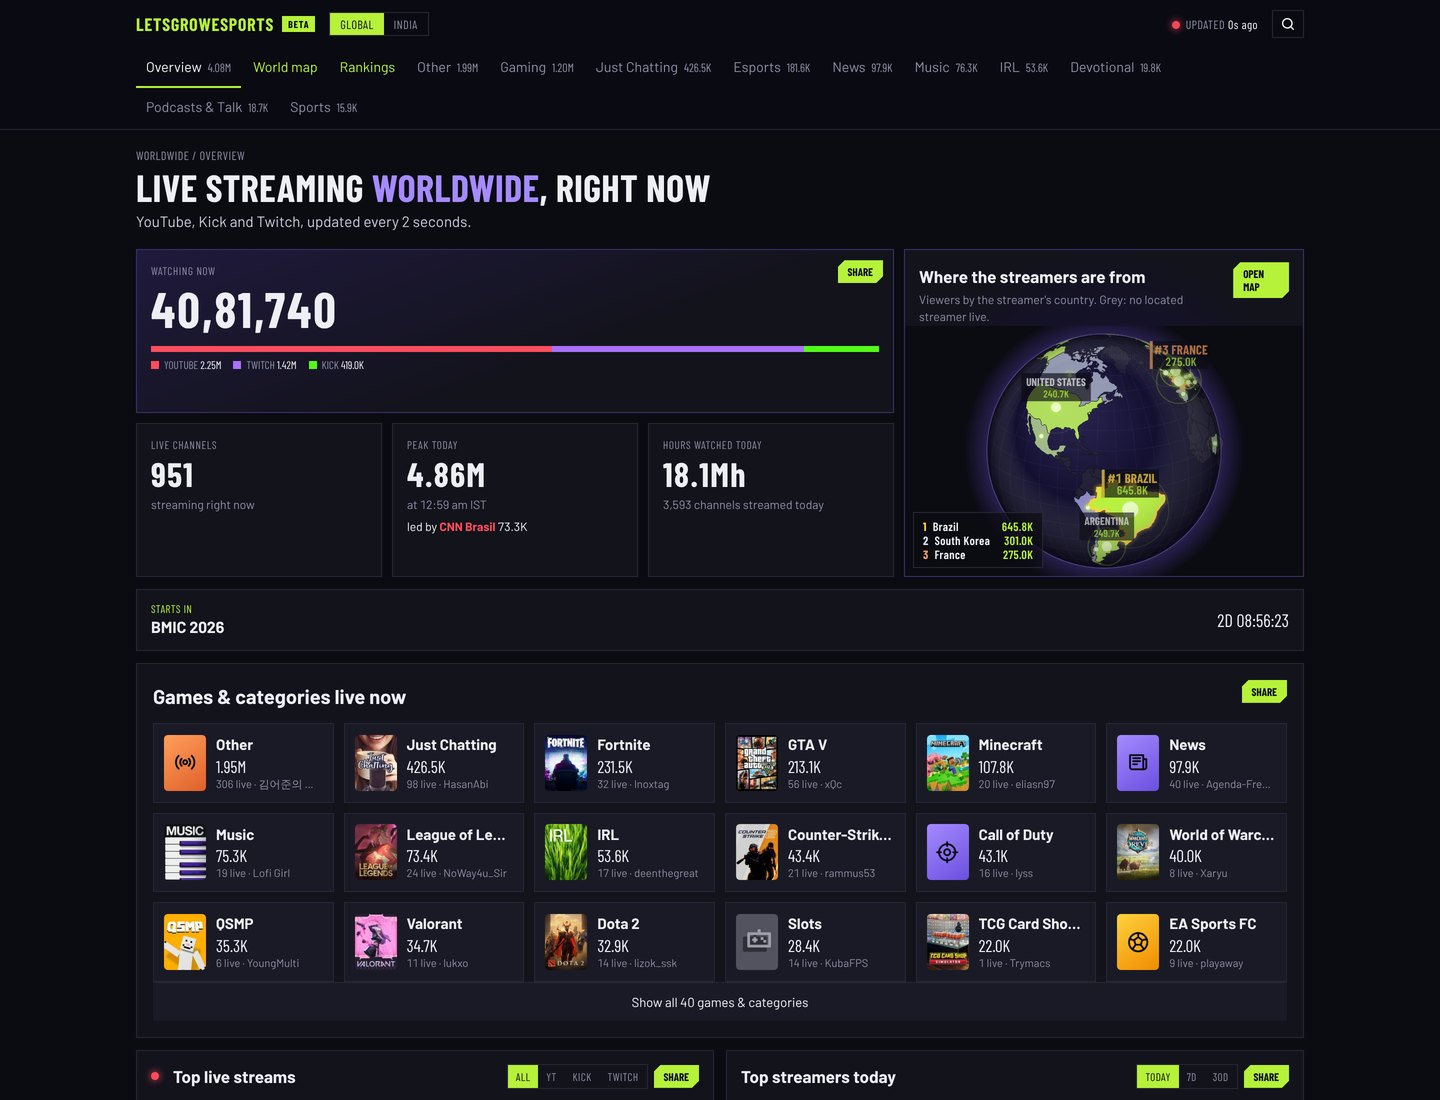
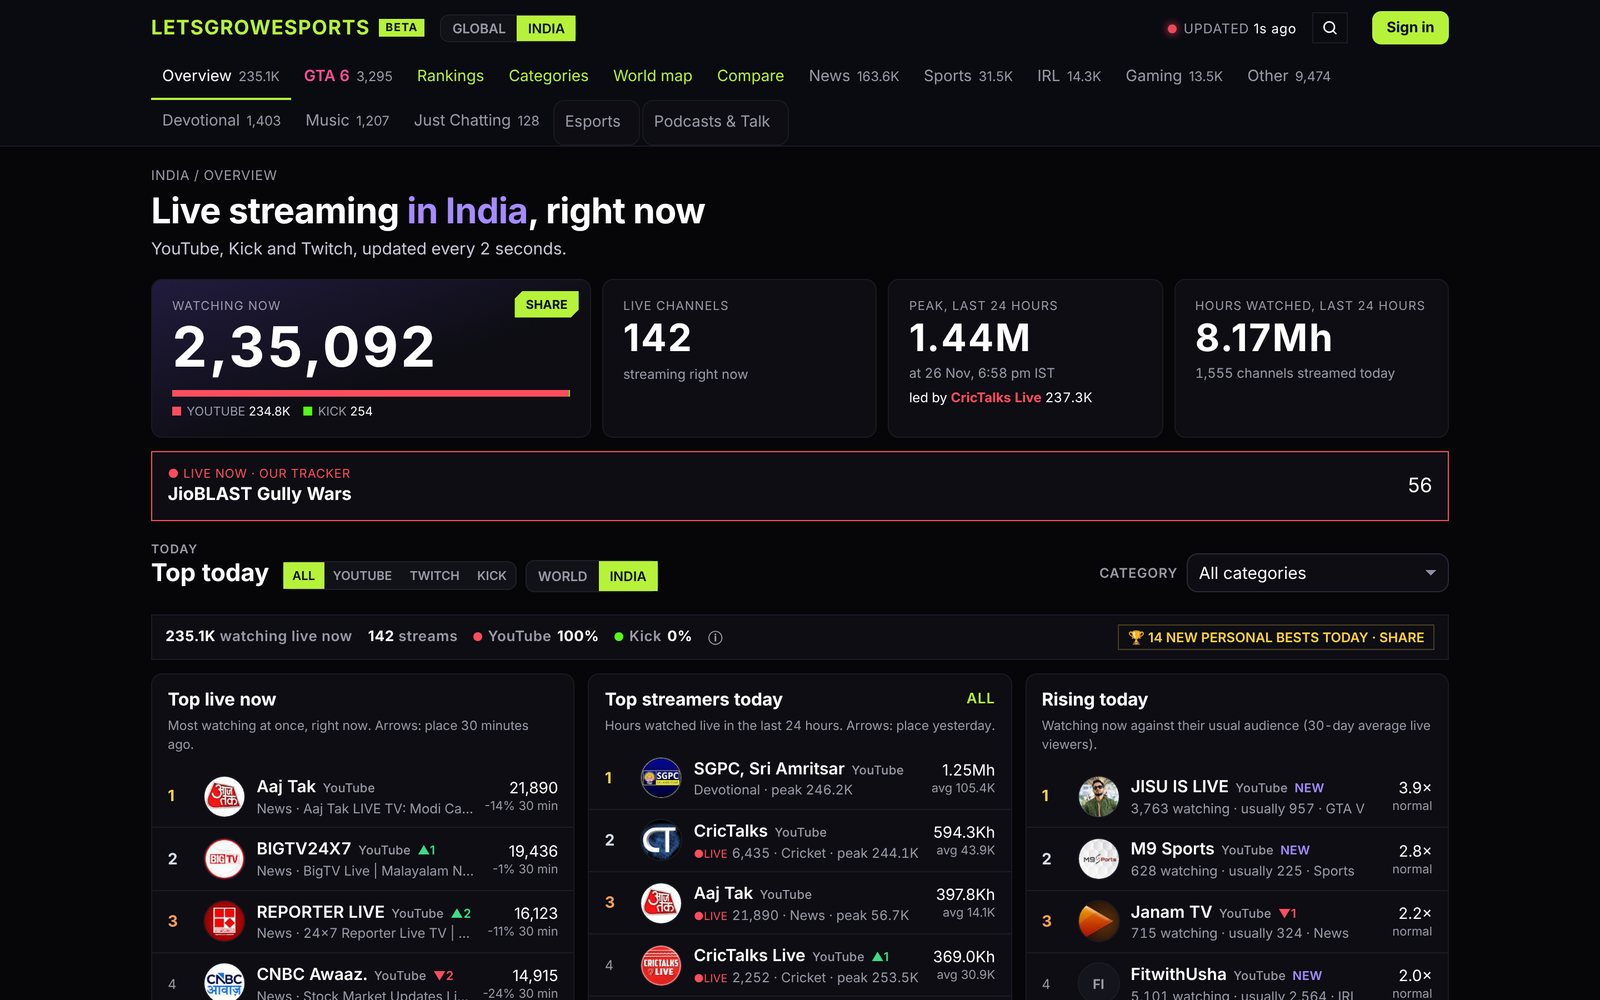
README: new screenshots (India, PMGC tracker, rankings, worldwide, phone) and share cards; PMGC Day 1 numbers (#293)
Claude-Session: https://claude.ai/code/session_01BzJY31iHji2UxXymYXT3SW

diff --git a/README.md b/README.md
@@ -5,7 +5,17 @@ Live at [live.letsgrowesports.com](https://live.letsgrowesports.com), used by 5,
 
 > Maintaining it? Start with [docs/HANDOFF.md](docs/HANDOFF.md). How it works under the hood: [docs/TECHNICAL.md](docs/TECHNICAL.md).
 
-![The live dashboard, worldwide](docs/site-overview.jpg)
+![India overview: everyone streaming live in India right now, updated every 2 seconds](docs/site-overview.jpg)
+
+| Event tracker (PMGC 2026) | Watch-party leaderboard |
+|---|---|
+| ![PMGC 2026 tracker: 4,99,214 peak, official vs watch parties](docs/site-event.jpg) | ![Watch parties ranked, India / outside India, YouTube and Kick merged](docs/site-event-board.jpg) |
+| **Rankings, India** | **Worldwide overview** |
+| ![Top channels in India by peak live viewers](docs/site-rankings.jpg) | ![Everyone streaming live worldwide](docs/site-global.jpg) |
+
+**Share cards** (made on the site, sized for Instagram posts and stories and for X):
+
+![Leaderboard, streams and streamer rank cards for PMGC 2026](docs/share-cards.jpg)
 
 ## The problem
 
@@ -16,6 +26,8 @@ Audience numbers for creators and live events are late, partial and split across
 - Channel trackers say little about creators outside the US, about live audiences, or about how a channel's recent videos actually perform.
 
 **GTA 6 launch day (18 Nov 2026):** the site measured **12.7 million people watching live streams at once worldwide**, with GTA 6 alone peaking at **7.08 million** across YouTube, Twitch and Kick, and the top Indian GTA 6 creators (Mythpat 125K, CarryisLive 103K, GamerFleet 90K) ranked against the world.
+
+**PMGC 2026, Day 1 (26 Nov):** the site measured **4,99,214 people watching at once** at 8:21 PM IST across 300 streams, and **73% of them (3.63 lakh) were on watch parties**, led by Snax Gaming at 2,11,073. The official broadcasts peaked at 1.36 lakh.
 
 **What the data showed:** at the peak of BMSD 2026, a national esports final, this site measured **653,067 people watching at once, and 57% of them were on creators' watch parties, not the official stream.** An official-only report would have missed most of the audience.
 
@@ -35,7 +47,7 @@ keeps its region in the address.
 
 - **Live dashboard:** everyone watching right now across YouTube, Twitch and Kick, by platform, category and game, refreshed every 2 seconds. Every live Twitch stream is counted, plus Kick and YouTube: over 100,000 live streams at once (126,100 on 5 Nov 2026).
 - **Esports and tournaments:** every tournament on now, grouped by game. Each one has its own page (`/global/t/<name>`, `/india/t/<name>`) that adds up every channel carrying it, in any country or language: official broadcasts, regional channels (for example Garena's country channels for one Free Fire event) and co-streams. Combined watching now, combined peak, today's line, peak by day, hours watched, every channel's own peak, languages, and a share card. League names and editions (FFWS and FFWS 2026, CEGC and CEGC 2026) are one event, never two cards.
-- **Event trackers:** the site's own end-to-end trackers for Indian esports (official broadcast plus permitted watch parties every 2 seconds, with the split). Tracked so far: BMSD 2026 (653K peak), BMIC 2026, CEGC 2026, PIC 2026. Tracking starts by itself when the official channel goes live.
+- **Event trackers:** the site's own end-to-end trackers for esports (official broadcast plus watch parties every 2 seconds, with the split). Tracked so far: BMSD 2026 (653K peak), BMIC 2026, CEGC 2026, PIC 2026, PMGC 2026 (worldwide). Tracking starts by itself when the official channel goes live. For worldwide events, watch parties are found across every region, checked against each channel's past PUBG Mobile / BGMI streams (and their chat when unknown), split into India and outside India from the streamer's own bio, and a streamer live on both YouTube and Kick is one row with both peaks. Each stream shows a viewer line, average and peak time; a CSV of the day goes to the owner after every broadcast.
 - **GTA 6 launch coverage:** from release (18 Nov 2026, 10:00 UTC) the site sweeps the whole world for GTA 6 streams: every Twitch page of the category (up to 40,000 streams), Kick by viewers and in 16 languages, and 32 YouTube searches across the main countries and languages. The top 1,000 streams are re-read every 2 seconds. Streams count from 1 viewer. A channel is in the GTA 6 lists if even one of its streams was GTA 6. Because YouTube does not label a stream's game in its API, YouTube channels are checked against their own streams: the game card YouTube shows under the video, then the title. Titles that only talk about GTA 6 ("waiting", "countdown", "reaction", `#gta6` tags) and re-streams that copy a bigger channel's title word for word are kept out.
 - **Channel pages for any channel:** subscribers, lifetime views, views gained per day, every recent video (sortable by date, views, likes, engagement), past live streams with each stream's peak, best day and time to post, rank in its category and country, the same creator's channels on other platforms, and a live-day share card while the channel is streaming. Kick and Twitch views come from their VODs. Official esports channels (for example Krafton India Esports) show their events first.
 - **Rankings:** one list per platform plus **All platforms** (YouTube, Twitch and Kick together), by peak live viewers, average live viewers, hours watched, views gained, engagement, subscribers gained or total views. Channels live right now are tagged LIVE. Every metric has a period: 24 hours, 3 / 7 / 30 days, 3 / 6 months, year to date, 1 year, lifetime. Filter by category, country and any game (a type-to-search box that also works on phones). India rankings show each channel's **worldwide rank** when it is in the world's top 50. Share cards come in ranges (top 1 to 10, 11 to 20 ... 41 to 50) for posts and stories.
@@ -46,11 +58,7 @@ keeps its region in the address.
 - **One definition of "today":** every "today" number (peaks, hours watched, top lists, cards) is the last 24 hours, so the overview, rankings and cards always agree.
 - **Compare, world map, Predict & Win** (a free prediction game per tournament).
 
-| Rankings | World map |
-|---|---|
-| ![Rankings](docs/site-rankings.jpg) | ![The 3D globe of who the world is watching](docs/site-map.jpg) |
-| **Channel page** | **Game page (BGMI)** |
-| ![A channel page](docs/site-channel.jpg) | ![BGMI live in India with event history](docs/site-bgmi.jpg) |
+<p align="center"><img src="docs/site-mobile.jpg" width="260" alt="The PMGC tracker on a phone"></p>
 
 ## Product management
 
